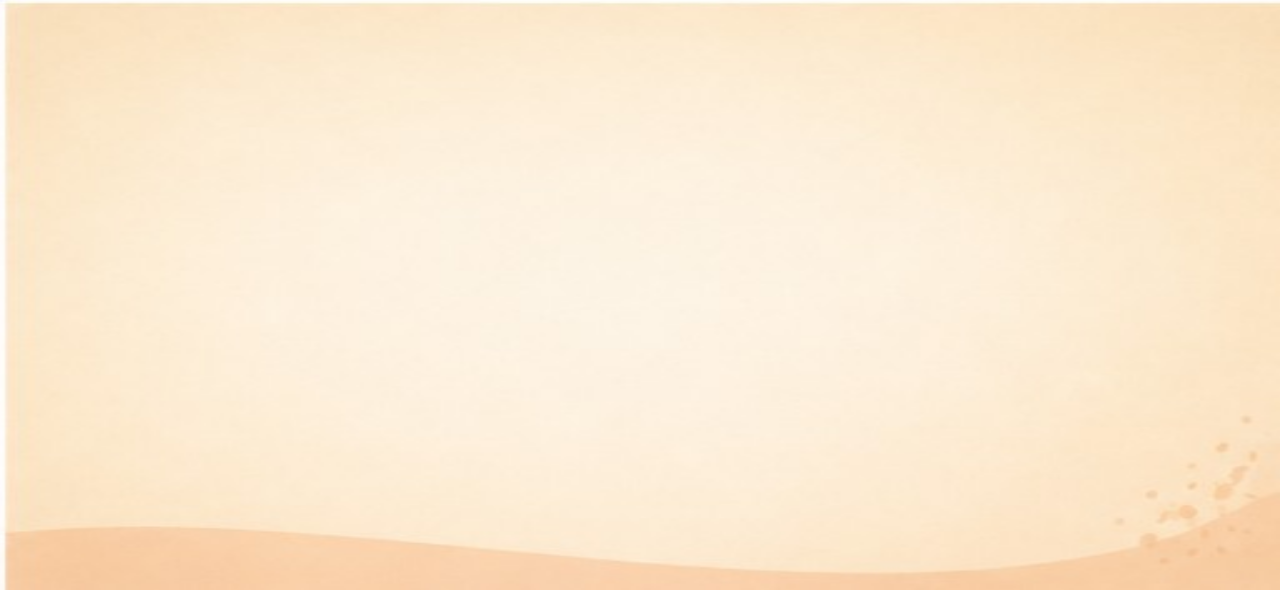
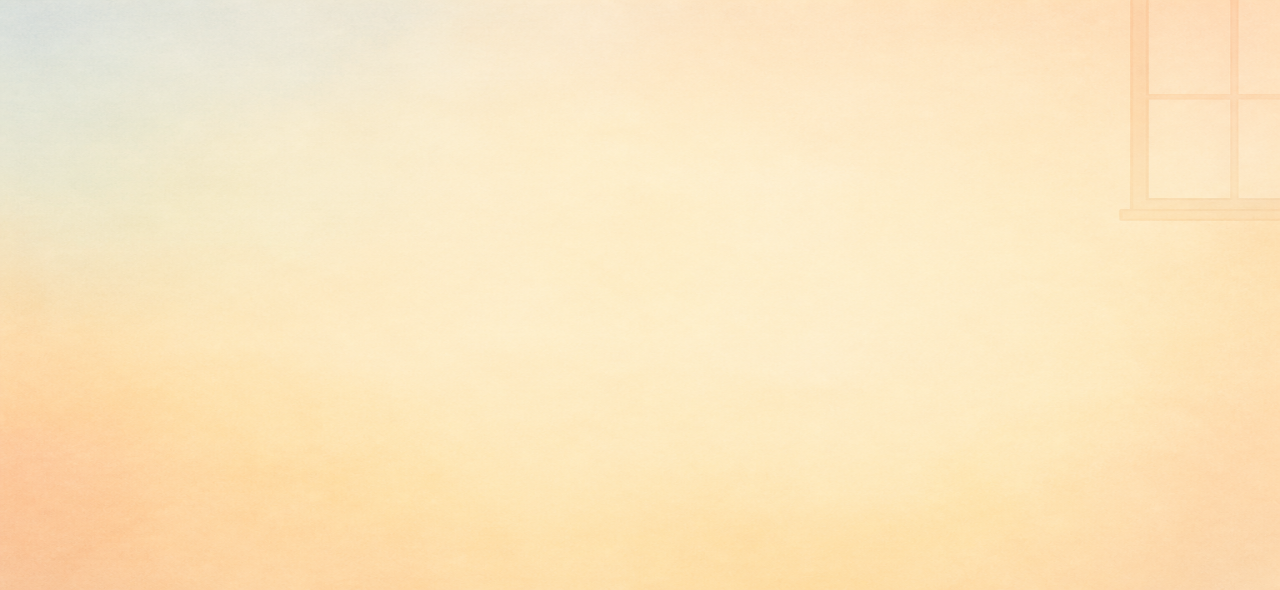
Refresh home-warm a-d motifs and document e-h place-true glyphs.
Aligns the theme set docs with the expanded home deck so future gens don't fall back to leaf-sticker formula.

diff --git a/docs/bg-theme-sets.md b/docs/bg-theme-sets.md
@@ -95,7 +95,7 @@ Anti-formula section.
 |-----|--------------------|-------------------------|
 | `clinic-cool` | tooth outline, soft sparkle, pale alcove edge, exam-lamp glow, **blank** clipboard glyph (no letters) | grass, hills, nature landscapes, readable clipboard forms, mid-frame dental chair |
 | `travel-air` | paper plane, map-pin trail, soft cloud corner | beach shells, bakery tools, farm wheat |
-| `home-warm` | curtain fold, soft arch shadow, peach hill band at edge | outdoor meadow, clinic teal wall |
+| `home-warm` | curtain fold, soft arch shadow, peach hill band at edge, lamp-glow blob, window sash fringe (a–d legacy hills/leaf; e–h place-true) | outdoor meadow, clinic teal wall, formula leaf stickers |
 | `outdoor-fresh` | grass fringe, picnic blanket corner, zoo gate/rail watermark, tent + lantern | generic leaf/sun stickers only, identical hill formula, indoor shelves, dough, tooth icons |
 | `gym-cool` | basketball corner, court lane fringe, rolled mat, wall-pad edge | outdoor meadow, clinic tooth, bakery dough |
 | `beach-warm` | shell, wave fringe, sand dollar, sun corner | wheat, bakery loaf, clinic sparkles |
@@ -212,12 +212,15 @@ faint cloud band at top only.
 > plane only in a corner — never a full airport scene.
 
 ### 3. `home-warm` — family / house / daily routine
-Palette: peach, cream, soft gold. Corner motifs: faint curtain fold or soft
-arch shadow at the edge only.
+Palette: peach, cream, soft gold (cool-to-warm wall washes OK). Corner motifs
+must differ across panels: curtain fold, lamp-glow blob (no fixture), soft
+arch shadow, window sash fringe, peach hill band at edge. Not outdoor meadow /
+leaf stickers. Panels `home-e`…`h` carry the clearer place-true glyphs;
+`home-a`…`d` kept as legacy soft hills.
 
 > [style lock] Generate a 2×2 grid of quiet ESL slide backgrounds. Shared warm
-> home palette. Empty centre. No sofas, no lamps, no window plants in the
-> middle band.
+> home palette. Empty centre. Thumbnail home glyphs only in corners — no sofas,
+> no furniture rooms, no mid-frame lamps or window plants.
 
 ### 4. `outdoor-fresh` — park / zoo / camp (when scene is not the hero)
 Palette: soft sage + pale sky + cream haze. Place-true corner motifs (pick
